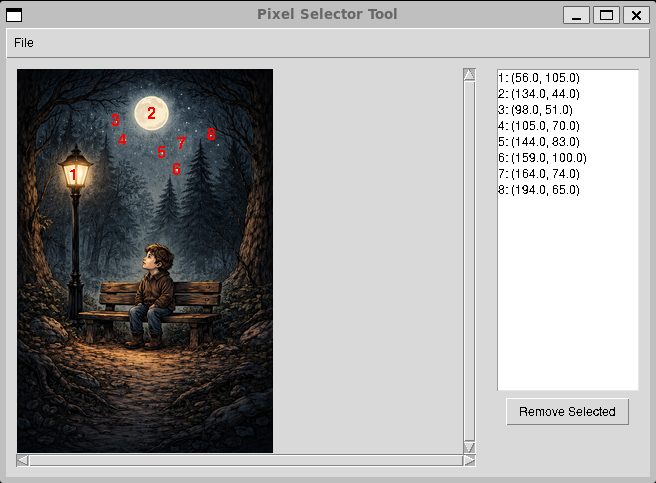
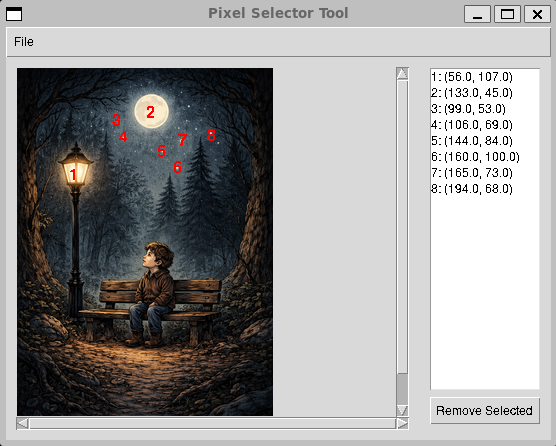
Fix annotation shift in the saved reference image

diff --git a/pixelselector.py b/pixelselector.py
@@ -195,7 +195,14 @@ class PixelSelectorApp:
         draw = ImageDraw.Draw(annotated_image)
         font = ImageFont.load_default(size=16)
         for i, (x, y) in enumerate(self.pixels):
-            draw.text((x, y), str(i + 1), fill="red", font=font)
+            text = str(i + 1)
+            bbox = draw.textbbox((0, 0), text, font=font)
+            draw.text(
+                (x - (bbox[0] + bbox[2]) / 2, y - (bbox[1] + bbox[3]) / 2),
+                text,
+                fill="red",
+                font=font,
+            )
         annotated_image.save(image_filename)
         messagebox.showinfo(
             "Success", f"Annotated image saved successfully as {image_filename}"
